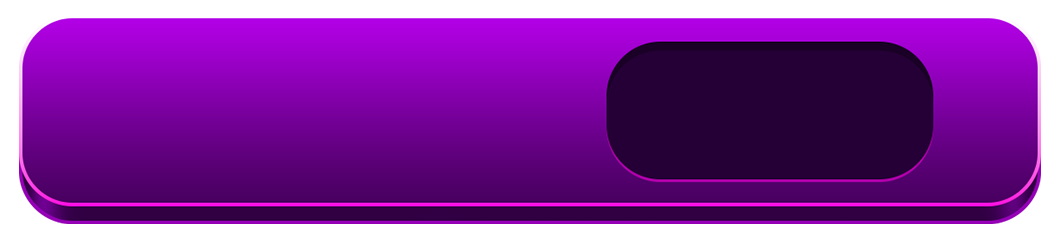
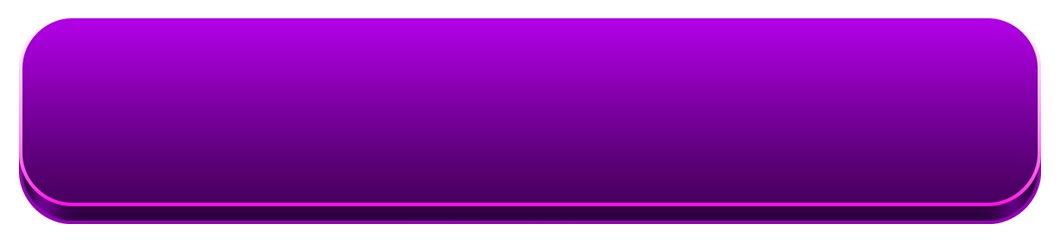
fix: separate leaderboard panel

Changed region(s): [[0.5604, 0.1458, 0.9028, 0.7583]]

diff --git a/src/components/LeaderboardList.tsx b/src/components/LeaderboardList.tsx
@@ -30,8 +30,12 @@ export default function LeaderboardList({leaderboards, weekId, token, hasToken}:
               <div className="relative z-10 mb-2 flex flex-1 items-center">
                 <span className="text-xl sm:text-2xl tracking-wider ms-3 font-semibold">{row.leaderboardId ?? 'Unknown'}</span>
               </div>
-              <div className="relative z-10 mb-2 mr-4 flex w-[30%] items-center justify-center">
-                <span className="text-2xl sm:text-2xl tracking-wider font-bold">{row.totalPoints}ps</span>
+              <div className="relative z-10 mb-1 w-22 sm:w-18 h-10 flex items-center justify-center shrink-0">
+                {/* --> The panel images are temporarily used as background frames with object-fill and 
+                absolute inset-0, which doesn't work well with next/image */}
+                {/* eslint-disable-next-line @next/next/no-img-element */}
+                <img src="/images/player_points_panel.png" alt="" className="absolute inset-0 w-full h-full object-fill" />
+                <span className="relative z-10 mb-1 text-2xl tracking-wider font-bold">{row.totalPoints}ps</span>
               </div>
             </div>
           );
